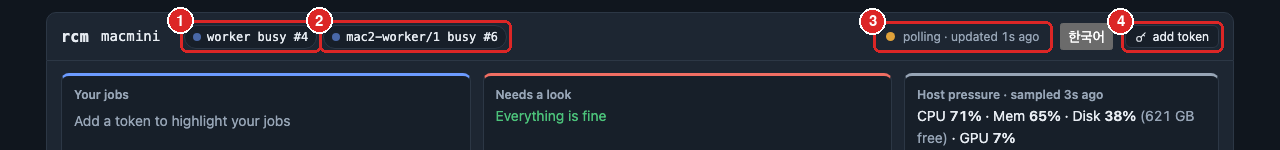
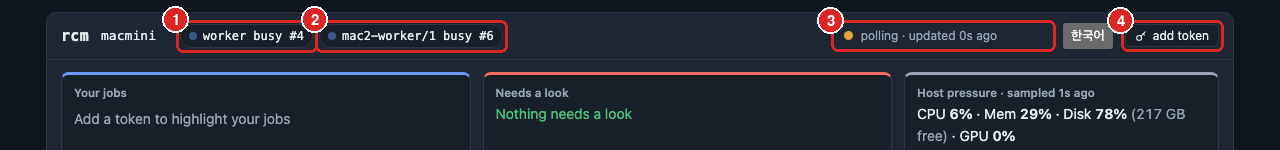
docs(web): 잘린 이름 누르기와 가장자리 수정을 적고 스크린샷을 새로 찍는다
CHANGELOG [Unreleased] — 다른 에이전트가 쓴 ### Changed 앞에 이 브랜치의
읽기 변화를 더한다: 잘린 이름을 누르면 전문 + Copy, 가운데 말줄임, 한 줄
워커 띠의 `+N`, 끊긴 워커 띠의 요약 · Show names, 긴 대기열의 show fewer
와 붙는 표 머리. ### Fixed 를 새로 둔다: 긴 글이 페이지를 옆으로 밀지
않음, 갱신에 행이 출렁이지 않음, 1px 미만 말줄임 · 최근 행 풀 칩, 머신
표 · 호스트 카드, 스토어 탭(폰 입력칸의 iOS 확대 포함). PR 링크는 아직
없다(test_changelog_pr_links 가 허용).

docs/usage.md · usage.ko.md 「The queue」에 잘린 이름을 눌러 전문을 읽는
한 문단을 둔다.

docs/images/ui/ 를 tools/screenshots/capture.py all → build.py 로 다시
만든다(이름 · 경로 · 포트 · 주소 · 토큰은 도구가 지운다, 눈으로 확인).
web-recent.png 의 자르기 상자가 고정 좌표(255)라 위 절들의 높이가 바뀌자
「Recent」 머리를 잘랐다 — build.py 가 원본의 절 머리 · 추정 근거 줄
좌표로 자른다.

diff --git a/tools/screenshots/build.py b/tools/screenshots/build.py
@@ -197,8 +197,14 @@ def main() -> int:
             (5, union(pick(r, "[data-more-recent]"), pick(r, "#estimates")), "l"),
         ],
         # 절 머리(「Recent · last 5 of 6」)부터 추정 근거 줄까지 — 위가 잘려 첫 행이 반만 보이던
-        # 자리를 절 머리에 맞춘다
-        crop=(0, 255, 1280, 655),
+        # 자리를 절 머리에 맞춘다. 고정 좌표(255)는 위 절들의 높이가 바뀌자 머리를 잘랐다 —
+        # 원본의 절 머리 · 추정 근거 줄 좌표에서 잰다
+        crop=(
+            0,
+            int(pick(r, "#recent .s-h")[1]) - 12,
+            1280,
+            int(sum(pick(r, "#estimates")[1::2])) + 10,
+        ),
     )
 
     h = rects("host")

diff --git a/CHANGELOG.md b/CHANGELOG.md
@@ -77,7 +77,17 @@ of a key bumps that number and is listed here.
   `checks` and `concurrency_scope`.
 
 ### Changed
-- **Long lists on the web page stay short.** An expanded waiting row with many machines first
+- **A cut-off name on the web page opens in full when you tap it.** Job names, machine and host
+  names, worker pills and other text cut to fit a column open a small box with the whole text and a
+  **Copy** button on a tap, a click or Enter; tapping again, tapping elsewhere or Escape closes it.
+  This works on a phone, which has no hover. Long names are cut in the middle
+  (`build-farm-mac…closet-22`), so names that share a long prefix still differ at the end.
+- The worker strip in the header stays one line: when it overflows it scrolls sideways (arrow keys
+  too) and a fixed `+N` badge counts the pills out of view — red when one of them is down or held —
+  and lists them on a tap. When remote workers stop answering, the banner says how many
+  (`2 workers unreachable — …`) and the names are behind **Show names**.
+- After **and N more** opens a long queue, **show fewer** folds it back. On a desktop the queue's column
+  headings stay at the top of the screen while you scroll. An expanded waiting row with many machines first
   counts them by verdict (`12 missing tools · 9 check failed · 3 down`), lists five, and hides the
   rest behind **show N more**, which the browser remembers per job. An expanded recent failure
   shows its failed names one per line (eight, then `+N more`), the server's summary in four lines
@@ -90,6 +100,28 @@ of a key bumps that number and is listed here.
   `완료 예상` instead of `종료` for an ETA, `실행 가능한 머신 없음`, `머신 점검 실패`, `대기열 N번째`,
   `빈 레인까지 5m`, `시스템 부하` for the load average and `10초마다 확인` while polling. In English,
   "needs attention" now says `Nothing needs a look` instead of `Everything is fine`.
+
+### Fixed
+- **Long text no longer pushes the web page sideways.** A job name with no spaces, a long requester,
+  a 300-character summary, a long machine, host or pool name, or a long link label stays inside its
+  column on a phone and at desktop width: names are cut to one line with the full text on a tap,
+  sentences are held to a fixed number of lines. Before, a 130-character name widened a phone page
+  to 1064 px and a recent row pushed a desktop page to 2576 px.
+- **Rows no longer jump when the page updates.** A waiting reason always takes two lines, an expanded
+  row's step line is one line whatever the step is called, the worker pills sit in one strip, a host
+  card's lines stay one line each as its five-second samples change, and the live button keeps its
+  width as its seconds tick — so a changing reason, a new step or the clock no longer moves
+  everything below it.
+- A name that fits is no longer cut by a fraction of a pixel: `macmini` showed as `macmi…`, a job's
+  time as `6m 2…`, and the end of a middle-cut name (`name-that-go…`). In the recent list, a job
+  from another pool keeps its pool chip readable: it moves to the line under the name when the two
+  do not fit, instead of turning the whole name cell into `gate …`.
+- The machines table keeps its column widths with a long name, fingerprint or check list, and a host
+  card's name, meters and process line stay inside the card. Disks of 1 TB and more read in TB.
+- **The Store tab holds its boxes** with long secret names, long validation errors, long file names,
+  a missing screenshot, a 300-character commit or an 80-character version name. The save badge and
+  the character counter keep their size as they change, and on a phone its text fields no longer make
+  iOS zoom in and push the page sideways.
 
 ## [0.4.4] - 2026-11-11
 

diff --git a/docs/usage.md b/docs/usage.md
@@ -343,6 +343,11 @@ Open `http://<build-machine>:8787/` — nothing to install, and it works on a ph
 8. **Another pool**, with its own workers and queue. The **Source** column shows the commit only;
    the repository it came from is in the expanded block, since every row usually repeats it.
 
+A name longer than its column is cut in the middle (`android-integration-test-s… name-that-goes`),
+so names that start the same still differ at the end. Tap or click a cut name — or Tab to it and
+press Enter — to read it in full, with a **Copy** button. Tap again, tap elsewhere or press Escape
+to close it. It needs no hover, so it works on a phone too.
+
 ### Your jobs
 
 ![after pasting a token: the token button shows your name, your jobs are marked, the log tail and buttons appear](images/ui/web-your-jobs.png)

diff --git a/docs/usage.ko.md b/docs/usage.ko.md
@@ -320,6 +320,10 @@ rcm artifacts 412 --fetch --output ./out   # 지정한 디렉터리에 쓴다
 8. **다른 풀.** 자기 워커와 자기 큐를 갖는다. **코드 출처** 칸에는 커밋만 남는다 — 저장소 주소는
    행마다 같은 값이 되풀이되므로 펼친 블록에 있다.
 
+칸보다 긴 이름은 가운데를 줄인다(`android-integration-test-s… name-that-goes`) — 앞이 같은 이름들도
+끝에서 갈린다. 잘린 이름을 누르면(키보드로는 Tab 으로 가서 Enter) 전문과 **복사** 단추가 뜬다. 다시
+누르거나 바깥을 누르거나 Escape 면 닫힌다. hover 가 없는 폰에서도 된다.
+
 ### 내 작업
 
 ![토큰을 넣은 뒤 — 버튼에 내 이름, 내 작업 표시, 로그 꼬리, 버튼들](images/ui/web-your-jobs.png)
